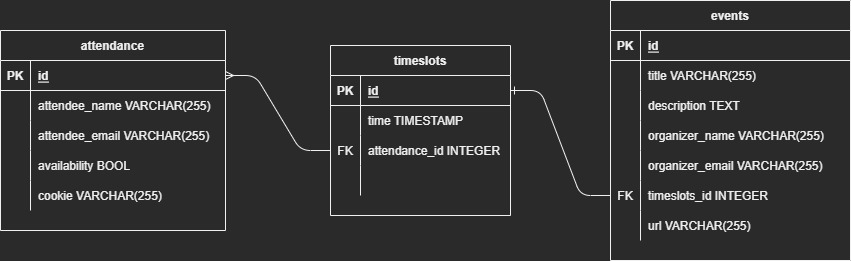
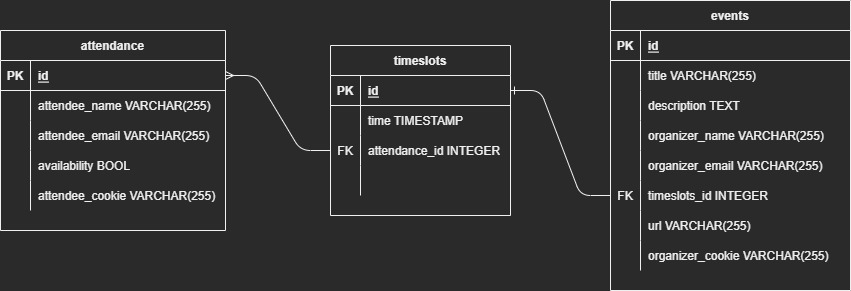
update erd, update route logic

diff --git a/routes/events.js b/routes/events.js
@@ -26,11 +26,17 @@ const attendeeRouter = db => {
     // Set cookie to remember who's the organizer
 
     // Generate random string as unique id/url
+    const uid = generateRandomString(30);
+    // check database if it's unique, regenerate if so
 
     // Insert new event into events table
-    const query = '';
-    const queryParams = [];
-    console.log(query);
+    const query = `
+    INSERT INTO events (title, description, organizer_name, organizer_email, timeslots_id, url)
+    VALUES (
+      $1, $2, $3, $5, $5, ${uid}
+    ); `;
+    const queryParams = [ , , , , ];
+    console.log("Query:", query, queryParams);
 
     // query processing here
     db.query(query, queryParams)
@@ -55,13 +61,13 @@ const attendeeRouter = db => {
     // Update event in table with new properties
     const query = '';
     const queryParams = [];
-    console.log(query);
+    console.log("Query:", query, queryParams);
 
-    // query processing here
+    //query processing here
     db.query(query, queryParams)
       .then(response => {
         res.json(response.rows);
-        // other data processing here
+        //other data processing here
       })
       .catch(err => {
         res
@@ -73,22 +79,29 @@ const attendeeRouter = db => {
 
   /* GET request for a specific /event/:id using its unique id */
   router.get("/:id", (req, res) => {
+    const uid = req.params.id;
 
     // Query DB
-    const query = '';
-    const queryParams = [];
-    console.log(query);
+    const query = `
+    SELECT * FROM events WHERE url = $1;
+    `;
+    const queryParams = [uid];
+    console.log("Query:", query, queryParams);
 
-    // query processing here
+    //query processing here
     db.query(query, queryParams)
       .then(response => {
+        // Error check if anything went wrong
+        if (!response.rows || response.rows.length !== 1) {
+          throw 'error';
+        }
+        // Process returned data from database
         res.json(response.rows[0]);
-        // other data processing here
-        // search for event
+        //other data processing here
         const templateVars = {};
-        // if event found, go to event page
-        return res.render("event", templateVars);
-        // if no matches, return back to /events/
+        //if event found, go to event page
+        return res.render(`events/${INSERT_UNIQUE_ID}`, templateVars);
+        //if no matches, return back to /events/
         return res.render("events", templateVars);
       })
       .catch(err => {
@@ -101,20 +114,29 @@ const attendeeRouter = db => {
 
   /* POST request for a specific event id to submit response */
   router.post("/:id", (req, res) => {
-    // Check if id is in database, if not error and send back to index
+    //Check if attendance_id is in database, if not error
 
-    // Set cookie
+    //Check if attendance_id matches an existing one, if so:
+      //Check if visitor_id is the same as database's visitor_id, if not error
 
-    // Query DB
+    //Set cookie if not set, otherwise existing cookie
+    const visitor_id = req.session.visitor_id;
+    if (!visitor_id) {
+      visitor_id = generateRandomString(30);
+      req.session.visitor_id = visitor_id;
+    }
+
+
+    // Query DB to submit or update attendance response
     const query = '';
     const queryParams = [];
-    console.log(query);
+    console.log("Query:", query, queryParams);
 
-    // query processing here
+    //query processing here
     db.query(query, queryParams)
       .then(response => {
         res.json(response.rows);
-        // other data processing here
+        //other data processing here
 
         return res.redirect(`/events/${INSERT_UNIQUE_ID}`);
       })
@@ -124,6 +146,11 @@ const attendeeRouter = db => {
           .json({ error: err.message });
       });
   });
+
+  // Returns a random character string with upper, lower and numeric of user-defined length
+  const generateRandomString = function(length) {
+    return Buffer.from(Math.random().toString()).toString("base64").substr(10, length);
+  }
 
 
   /* Return router with defined routes */
